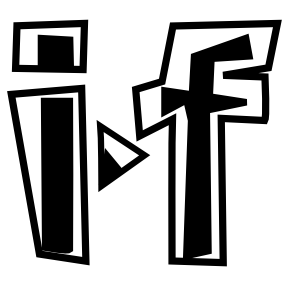
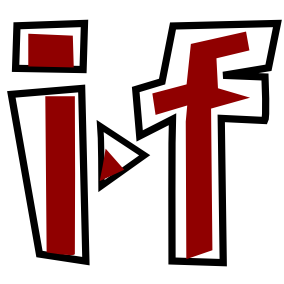
redesign www

diff --git a/www/index.html b/www/index.html
@@ -7,75 +7,162 @@
 		<meta name="description" content="inventory files" />
 		<meta name="keywords" content="inventory, files, inventorization, linux, application" />
 		<style>
-			.body {
-				padding: 0px;
-				margin: 0px;
-			}
-			.content {
-				padding: 10px;
-				margin: 10px;
-				display: inline-block;
-				position: relative;
-				left: 250px;
-			}
-			.menu {
-				position: fixed;
-				width: 200px;
-				text-align: center;
-				background-color: #EEEEEE;
-				padding: 10px;
-				margin: 10px;
-				font-size: 120%;
-				font-family: Verdana, Arial, Helvetica, sans-serif; 
-				color: #333366;
-			}
-			.menu-item {
-				background-color: #FFFFFF;
-				padding: 5px;
-				width: 190px;
-			}
-			.menu-item:hover {
-				background-color: #EEEEEE;
-				cursor: pointer;
-			}
+a{ 
+	text-decoration: none;
+	font-family: Verdana, Arial, Helvetica, sans-serif; 
+	color: #900000;
+	font-weight: bold;
+}
+a:hover {
+    color: #A80000;
+    border-bottom: 1px solid red;
+}
+h1{
+	color: #A80000;
+}
+
+body {
+	padding: 0px;
+	margin: 0px;
+}
+
+.menu-fixed{
+	margin: 0px;
+	position: fixed;
+	top: 0;
+	width: 100%;
+	background-color: #FFFFFF;
+	z-index: 100;
+}
+.menu{
+	width: 80%;
+	margin: 0 auto;
+	padding: 10px;
+	font-size: 120%;
+	font-family: Verdana, Arial, Helvetica, sans-serif; 
+	color: #333366;
+	border-bottom: 1px solid red;
+}
+.menu-left{
+	display: inline-block;
+	position: relative;
+	left: 0;
+}
+.menu-right{
+	display: inline-block;
+	float: right;
+}
+.menu-item:hover {
+	background-color: #EEEEEE;
+	cursor: pointer;
+}
+.menu-item-right{
+	margin-left: 15px;
+}
+.content-absolute{
+	position: absolute;
+	width: 100%;
+	top: 50px;
+}
+
+.application-logo{
+	position: fixed;
+	top: 50px;
+	right: 10%;
+	width: 400px;
+	height: 400px;
+	opacity: 0.15;
+	background-image: url(./images/inventory-files.png);
+	background-repeat: no-repeat;
+	background-position: right top;
+	z-index: -1;
+}
+
+.content {
+	width: 80%;
+	margin: 0 auto;
+	padding: 10px;
+	top: 100px;
+	
+}
+
+.copyright-fixed{
+	margin: 0px;
+	position: fixed;
+	bottom: 0;
+	width: 100%;
+	background-color: #FFFFFF;
+	z-index: 100;
+}
+
+.copyright{
+	position: relative;
+	margin: 0 auto;
+	width: 80%;
+	text-aligment: center;
+	padding: 5px;
+	font-size: 120%;
+	font-family: Verdana, Arial, Helvetica, sans-serif;
+	font-size: 10px;
+	color: #333366;
+	border-top: 1px solid red;
+}
+
+.link-top{
+	position: relative;
+	top: -50px;
+}
+
 		</style>
 	</head>
-	<body class="body">
-		<div class="menu">
-			<div class="menu-item" onclick="location.href='http://inventory-files.sea-kg.com';"><img width="190px" src="images/inventory-files.png"/></div>
-			<div class="menu-item" onclick="location.href='#about';">About</div>
-			<div class="menu-item" onclick="location.href='#license';">License</div>
-			<div class="menu-item" onclick="location.href='#sources';">Sources</div>
-			<div class="menu-item" onclick="location.href='#download';">Download</div>
-			<div class="menu-item" onclick="location.href='#contacts';">Contacts</div>
-			<div class="menu-item" onclick="location.href='#developers';">Developers</div>
+	<body>
+		<div class="menu-fixed">
+			<div class="menu">
+				<div class="menu-left">
+					<a href="http://inventory-files.sea-kg.com">inventory-files</a>
+					<!-- div class="menu-item" onclick="location.href='http://inventory-files.sea-kg.com';"><img width="190px" src="images/inventory-files.png"/></div -->
+				</div>
+				<div class="menu-right">
+					<a class="menu-item-right" href="#about">About</a>
+					<a class="menu-item-right" href="#download">Download</a>
+					<a class="menu-item-right" href="#contacts">Contacts</a>
+				</div>
+			</div>
 		</div>
-		<div class="content">
-			<h1>Project Inventory-files</h1>
-			<h1><a name="about">About</a></h1>
+		<div class="application-logo"></div>
+		<div class="copyright-fixed">
+			<div class="copyright">
+				Copyright © 2015 Evgenii Sopov (sea-kg). MIT Licence.
+			</div>
+		</div>
+		<div class="content-absolute">
+			<div class="content">
+				<a class="link-top" name="about"></a>
+				<h1>About</h1>
+				<h2>Description</h2>
 The program is freeware. All sources published on github.com.
 A program will be help full for watching changes your files.
 Use program you can scan files and search by filenames, type, size.
 Also this program will be detection type of file by path and extensions.
 You can write description for files.
-			<ul>
-				<li>Perform an inventory of the files on your computer</li>
-				<li>May be reports</li>
-			</ul>
-			Used Technologies:
-			<ul>
-				<li>C++</li>
-				<li>Qt5 Framework</li>
-				<li>Database SQLite</li>
-			</ul>
-			Screens from current version:<br><br>
-			<img width="500px" src="screen01.png"/><br><br>
-			<img width="500px" src="screen02.png"/><br><br>
+				<ul>
+					<li>Perform an inventory of the files on your computer</li>
+					<li>May be reports</li>
+				</ul>
+				Used Technologies:
+				<ul>
+					<li>C++</li>
+					<li>Qt5 Framework</li>
+					<li>Database SQLite</li>
+				</ul>
+				<h2>Screenshots</h2>
+				<img width="500px" src="screen01.png"/><br><br>
+				<img width="500px" src="screen02.png"/><br><br>
 
-			<h1><a name="license">License</a></h1>
-			
-			Download program your accept next license:
-			<pre>
+				<h2>License</h2>
+				
+				Download program your accept next license:
+				<pre>
 The MIT License (MIT)
 
 Copyright (c) 2015 Evgenii Sopov
@@ -97,13 +184,25 @@ AUTHORS OR COPYRIGHT HOLDERS BE LIABLE FOR ANY CLAIM, DAMAGES OR OTHER
 LIABILITY, WHETHER IN AN ACTION OF CONTRACT, TORT OR OTHERWISE, ARISING FROM,
 OUT OF OR IN CONNECTION WITH THE SOFTWARE OR THE USE OR OTHER DEALINGS IN THE
 SOFTWARE.
-			</pre>
+				</pre>
+				<a class="link-top" name="download"></a>
+				<h1>Download</h1>
+				<h2>Installaton package</h2>
+				You can donwload DEB-package from 
+				<a href="http://files.sea-kg.com/inventory-files/inventory-files_0.1.35_i386.deb">here</a><br>
+				or download and install
+				<pre>
+$ wget http://files.sea-kg.com/inventory-files/inventory-files_0.1.35_i386.deb
+$ sudo dpkg -i inventory-files_0.1.35_i386.deb
+				</pre>
 
-			<h1><a name="sources">Sources</a></h1>
-			You can donwload source code from here: <a href="https://github.com/sea-kg/inventory-files" target="_blank">GitHub.com</a><br/><br/>
-			
-			Or Build & Run (for Ubuntu or Debian):
-			<pre>
+				Comin soon... build for Windows
+				
+				<h2>Sources</h2>
+				You can donwload source code from here: <a href="https://github.com/sea-kg/inventory-files" target="_blank">GitHub.com</a><br/><br/>
+				
+				Or Build & Run (for Ubuntu or Debian):
+				<pre>
 $ sudo apt-get install git-core
 $ sudo apt-get install qt-sdk
 $ cd ~
@@ -112,25 +211,33 @@ $ cd inventory-files
 $ qmake
 $ make
 $ ./inventory-files.bin
-			</pre>
-			<h1><a name="download">Download</a></h1>
-			You can donwload DEB-package from 
-			<a href="http://files.sea-kg.com/inventory-files/inventory-files_0.1.35_i386.deb">here</a><br>
-			or download and install
-			<pre>
-$ wget http://files.sea-kg.com/inventory-files/inventory-files_0.1.35_i386.deb
-$ sudo dpkg -i inventory-files_0.1.35_i386.deb
-			</pre>
-
-			Comin soon... build for Windows
-			<h1><a name="contacts">Contacs</a></h1>
-			Need more information?... Or have you proposal?<br>
-			Please write e-mail to me: mrseakg(at)gmail.com
-			
-			<h1><a name="developers">Developers</a></h1>
-			<ul>
-				<li>Evgenii Sopov</li>
-			</ul>
+				</pre>
+				<a class="link-top" name="contacts"></a>
+				<h1>Contacs</h1>
+				Need more information?... Or have you proposal?<br>
+				Please write e-mail to me: mrseakg(at)gmail.com
+				<br><br>
+				Developers:
+				<ul>
+					<li>Evgenii Sopov</li>
+				</ul>
+				<br><br>
+				<br><br>
+				<br><br>
+				<br><br>
+				<br><br>
+				<br><br>
+				<br><br>
+				<br><br>
+				<br><br>
+				<br><br>
+				<br><br>
+				<br><br>
+				<br><br>
+				<br><br>
+				<br><br>
+				<br><br>
+			</div>
 		</div>
 	</body>
 </html>
